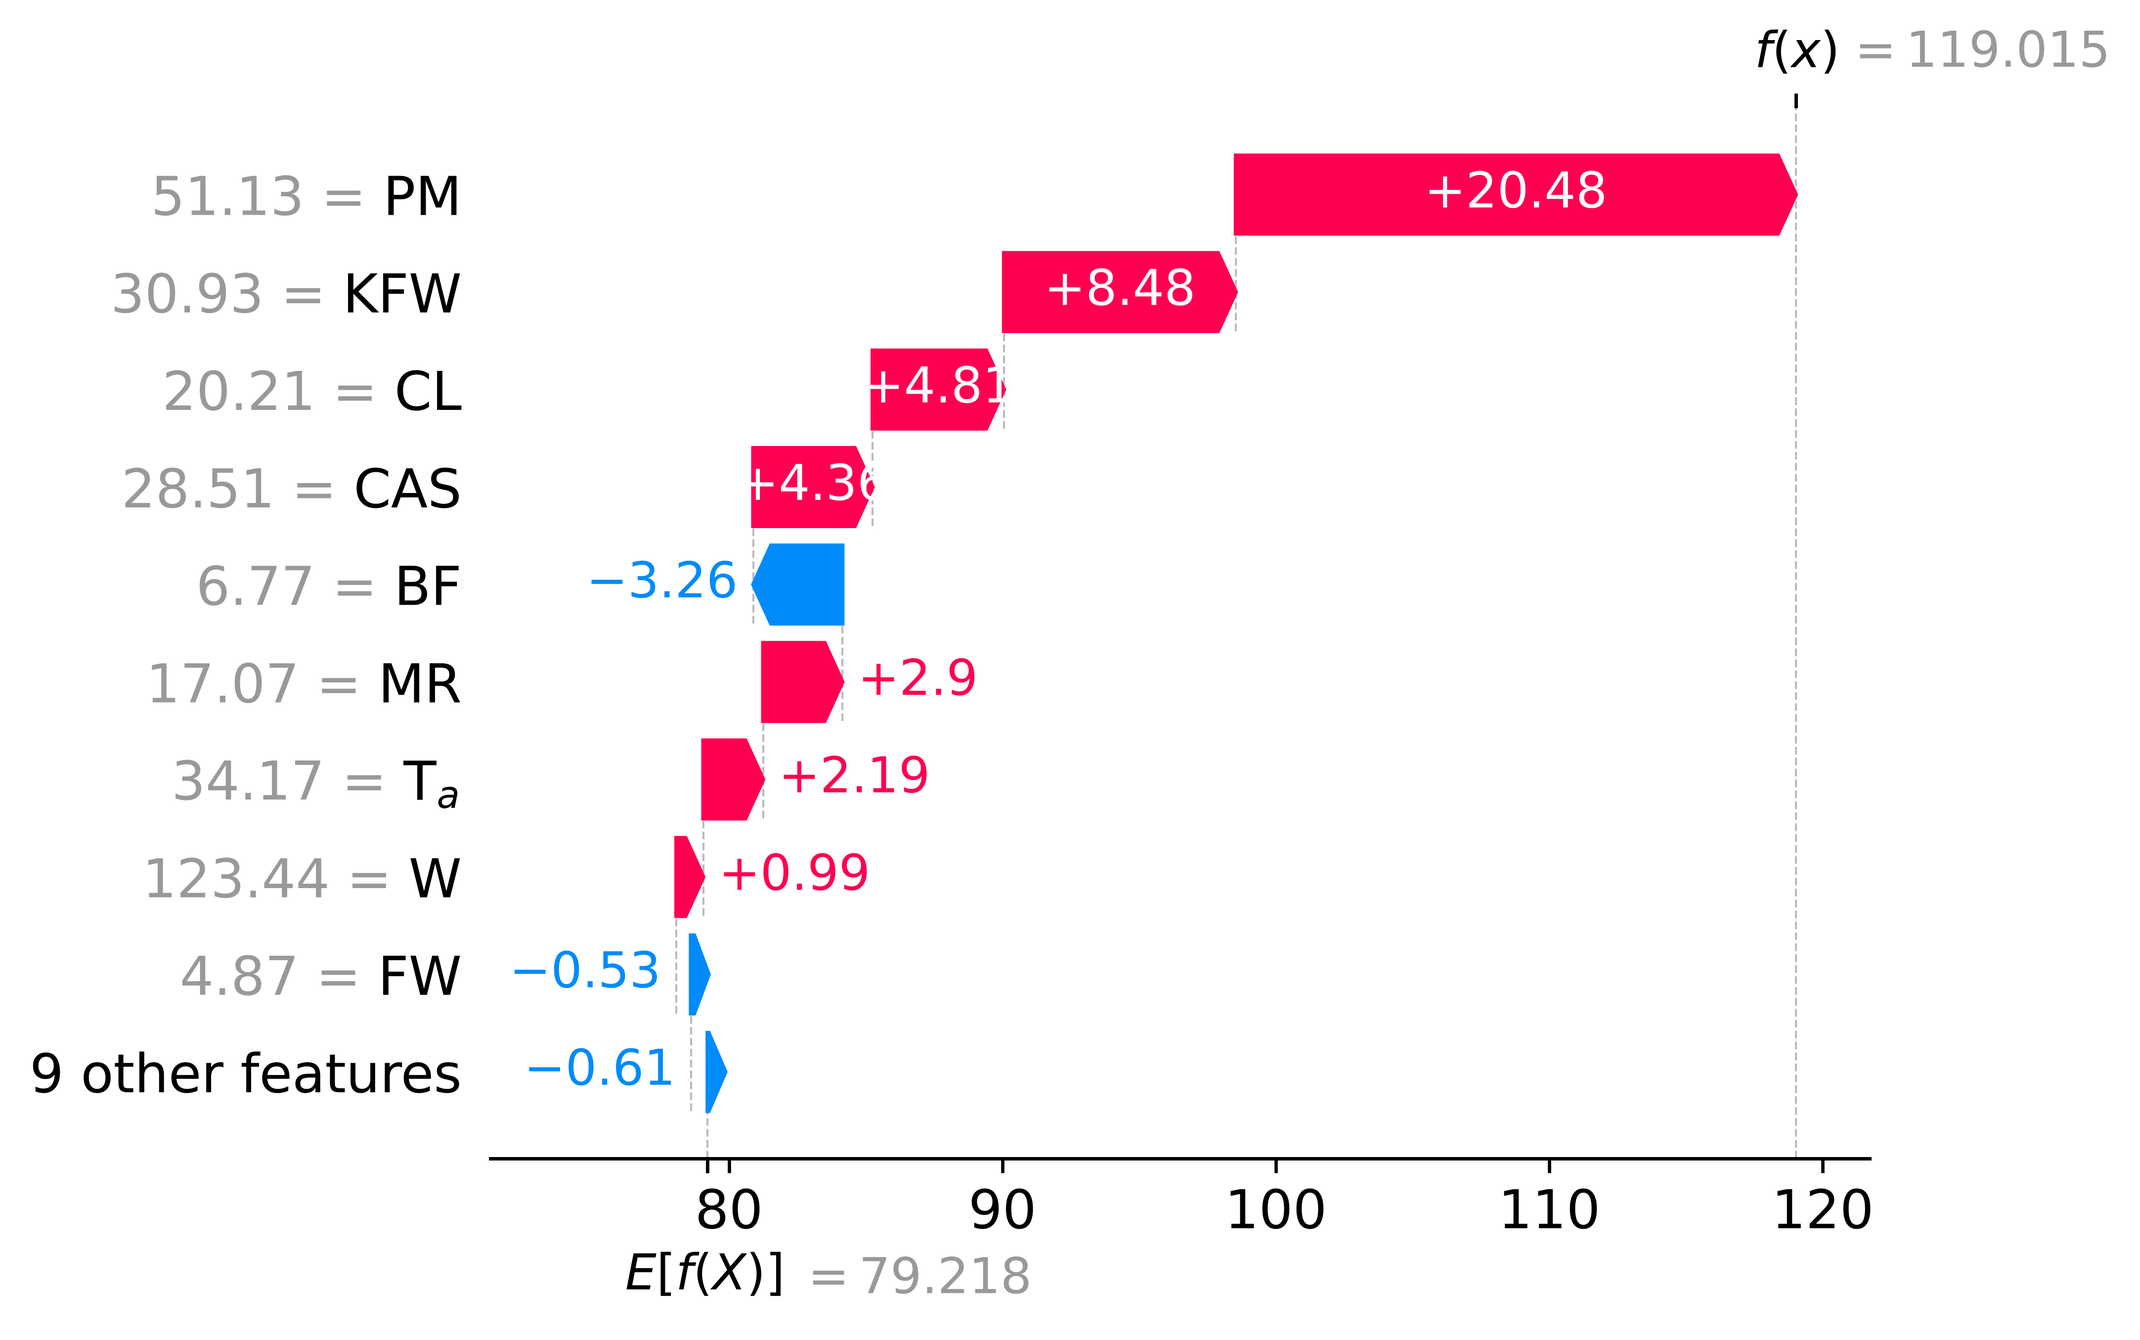
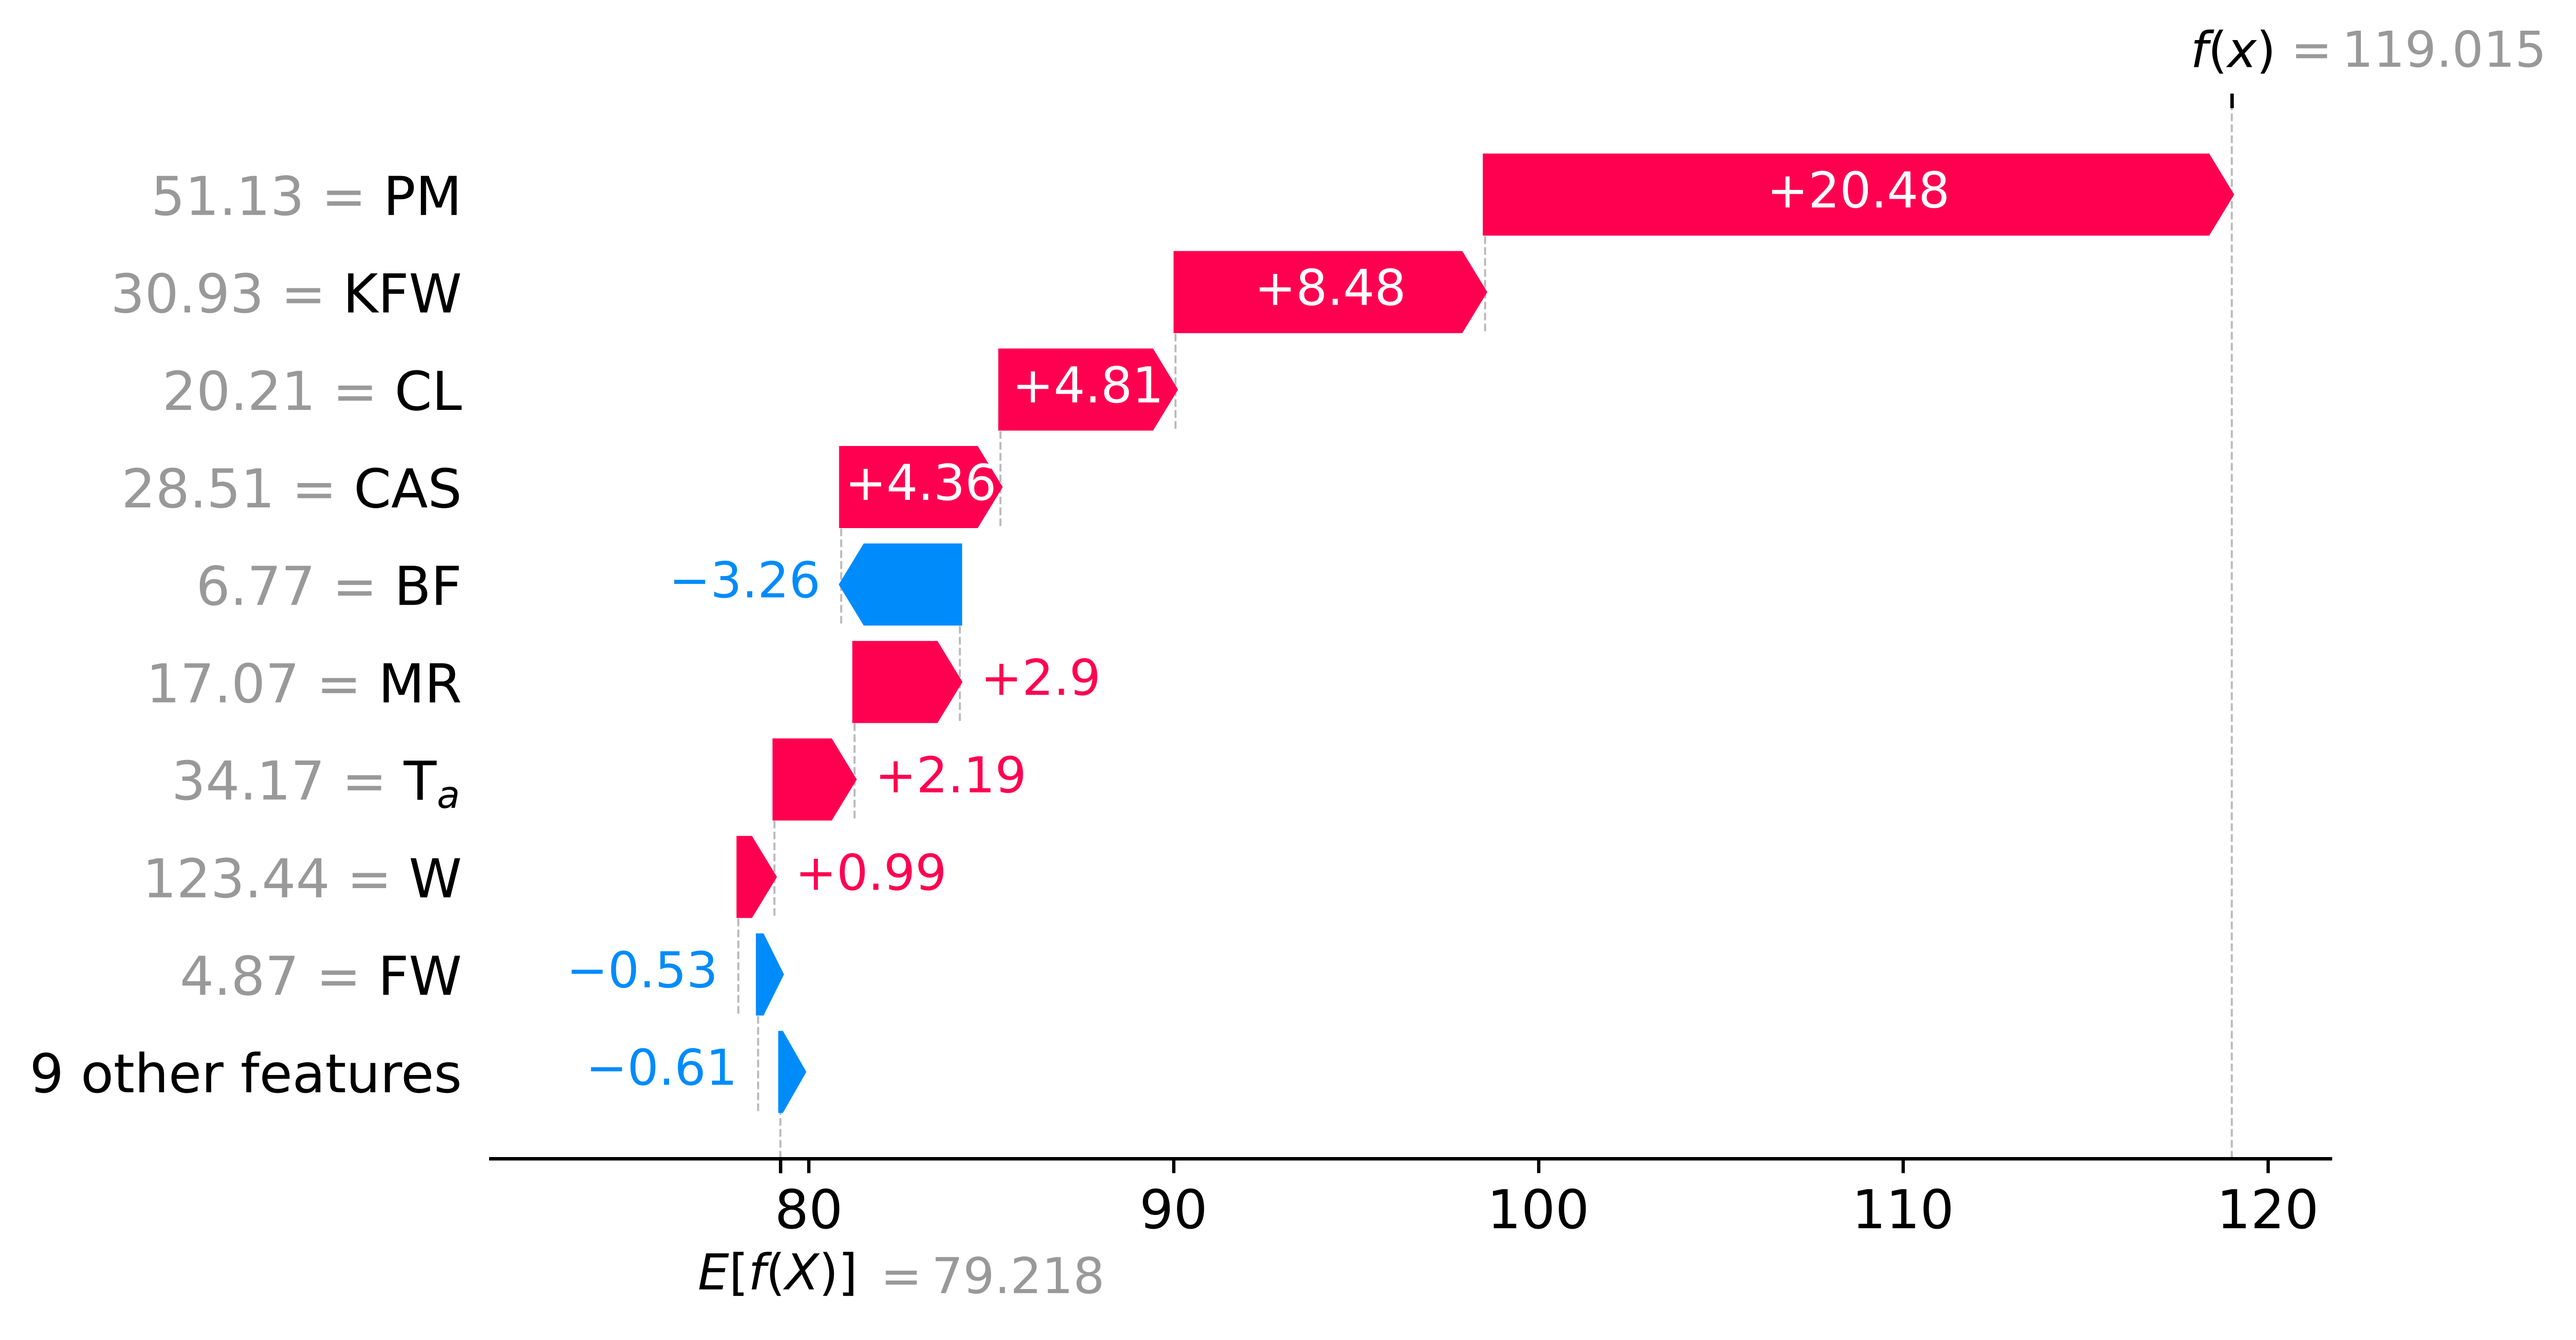
Figure 7: wider waterfall panels so bar labels are not clipped
Claude-Session: https://claude.ai/code/session_01KG1uDPRTsDL6mAMr1nmG7x

diff --git a/05_figures.py b/05_figures.py
@@ -108,7 +108,7 @@ for tag, key in [('a', 'Highest predicted yield'), ('b', 'Lowest predicted yield
     i = S['cases'][key]
     e = shap.Explanation(values=sv[i], base_values=base, data=Xt.values[i].round(2), feature_names=lab)
     plt.figure(); shap.plots.waterfall(e, max_display=10, show=False)
-    f = plt.gcf(); f.set_size_inches(6, 4.6); nogrid(f); save(f, f'Figure_7{tag}')
+    f = plt.gcf(); f.set_size_inches(8, 4.6); nogrid(f); save(f, f'Figure_7{tag}')
 
 # ---------- Supplementary ----------
 # S1: distributions
